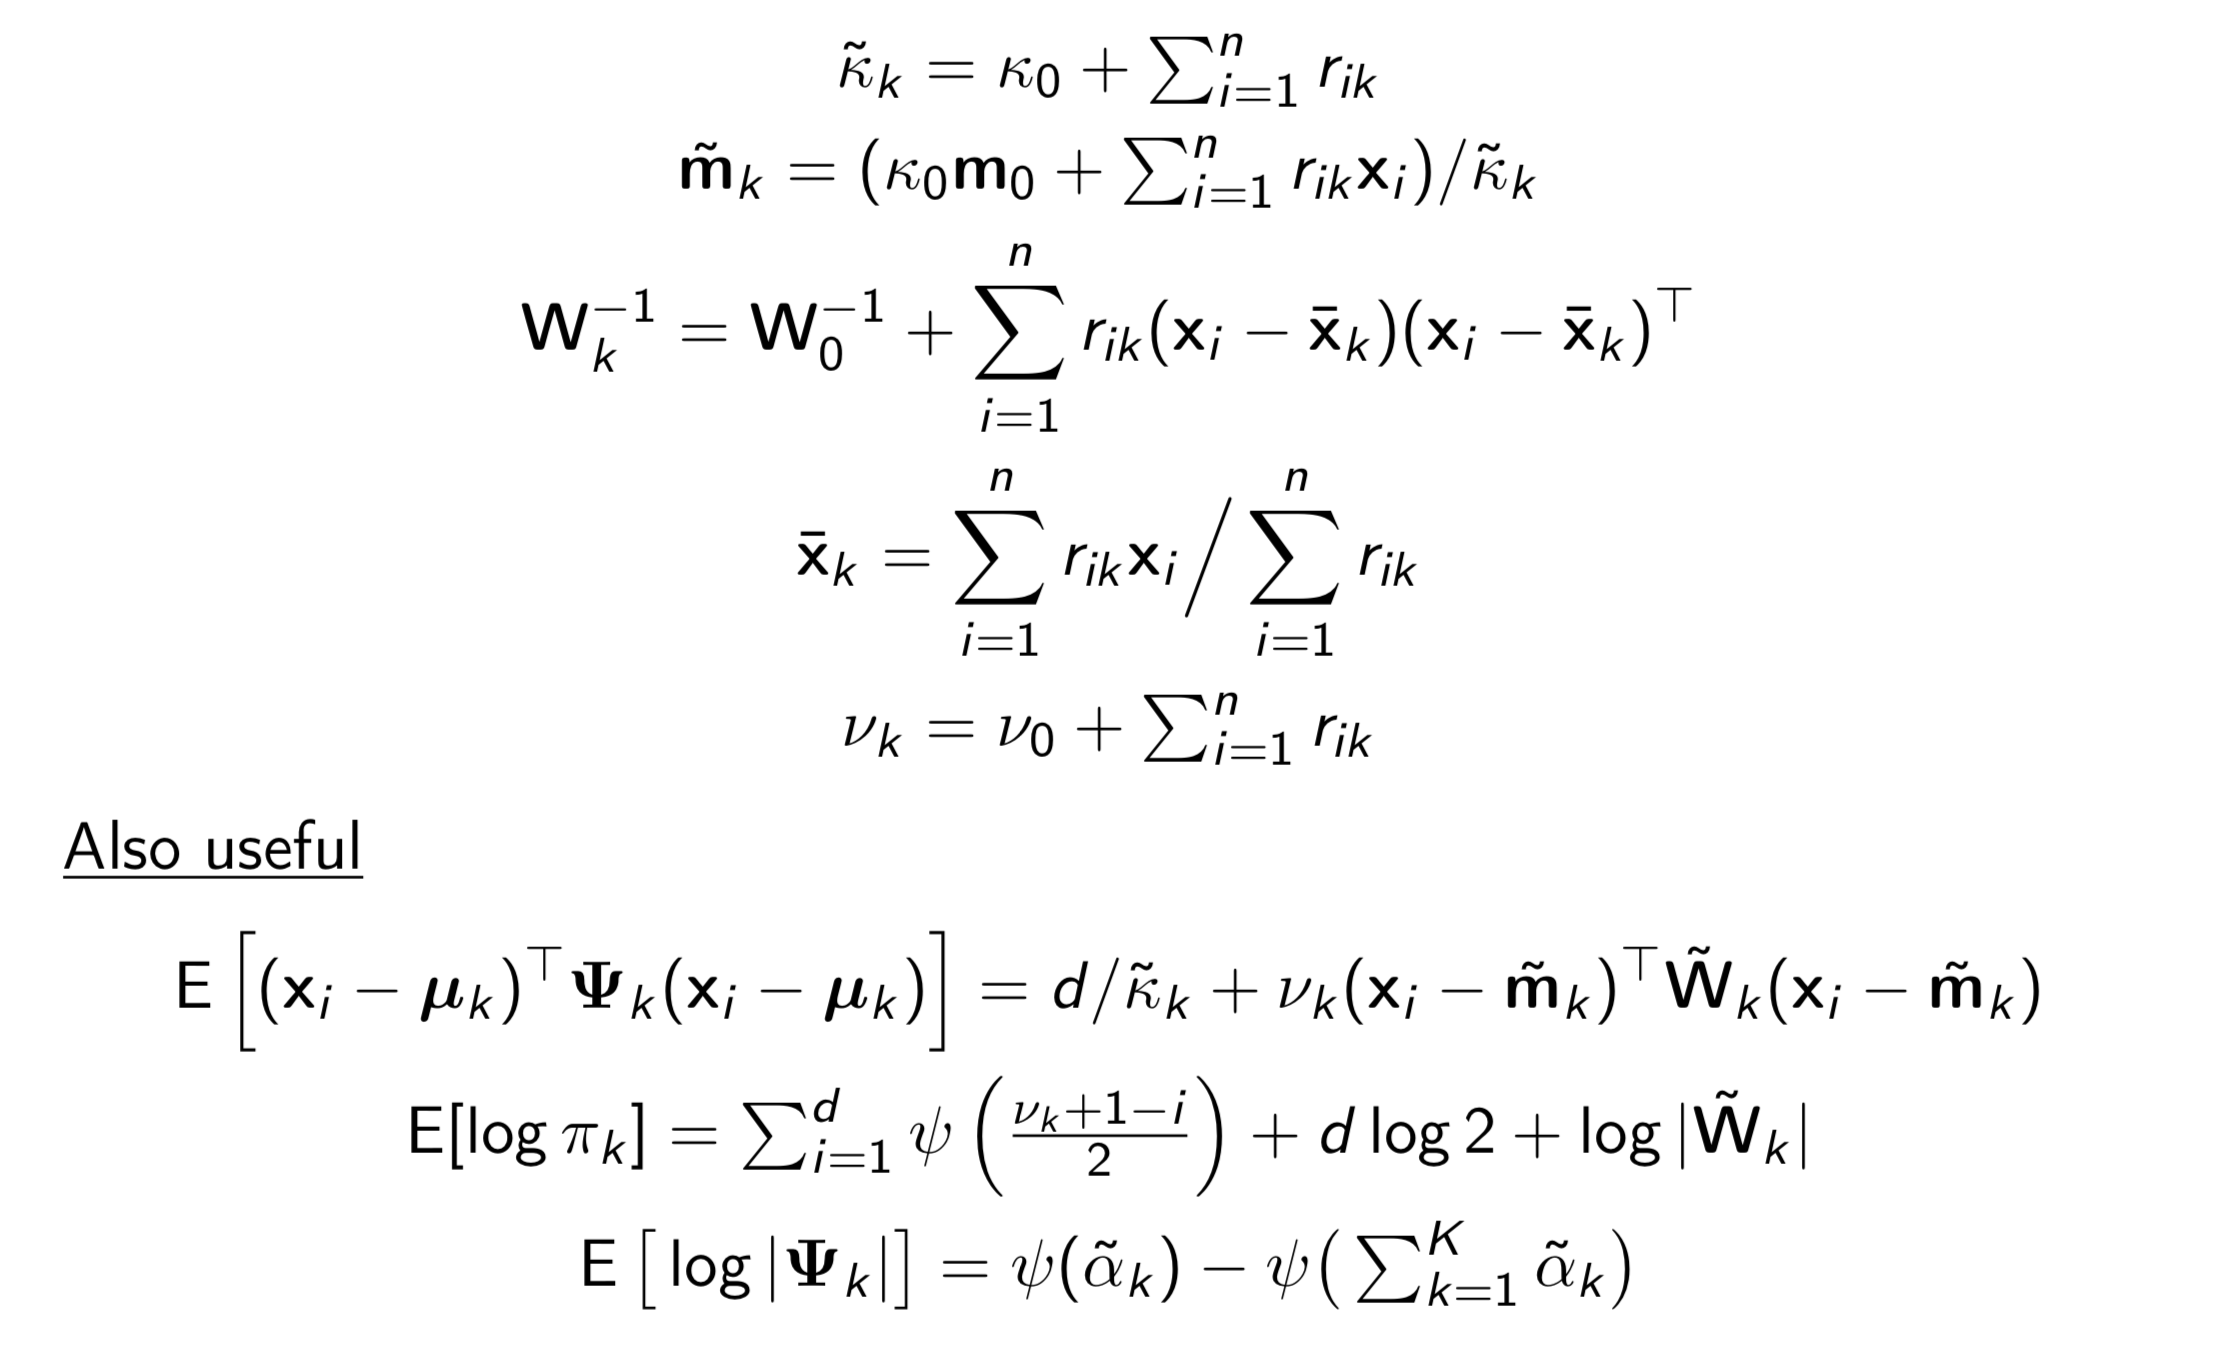
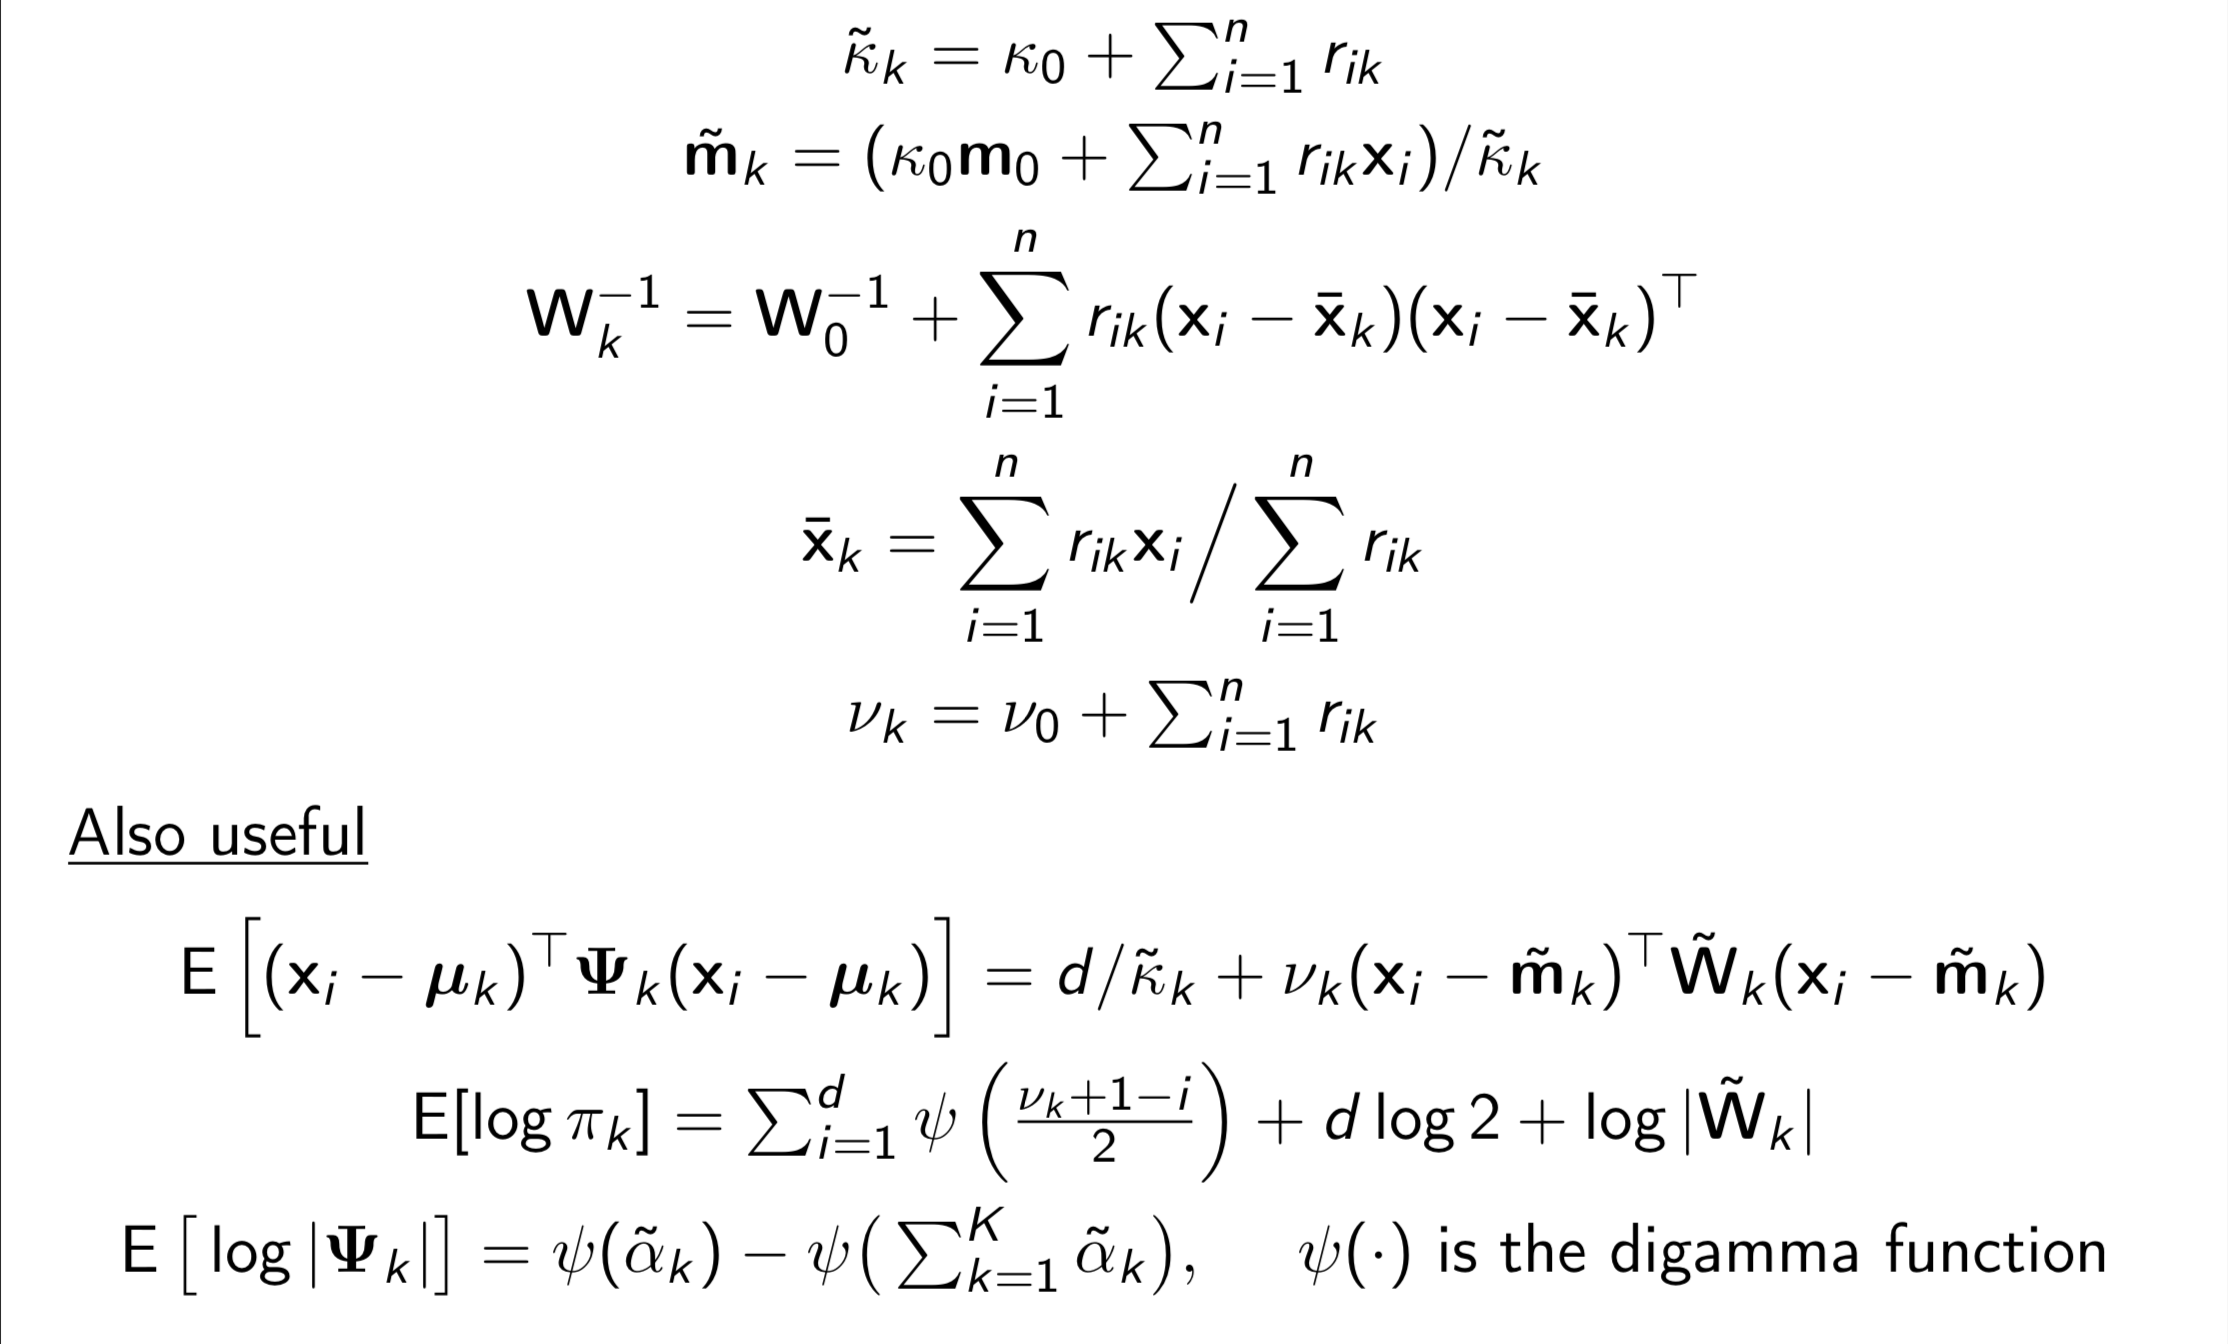
Update slides.

diff --git a/06-additional-material.tex b/06-additional-material.tex
@@ -135,7 +135,7 @@
     \E \left[(\bx_i - \bmu_k)^\top \bPsi_k (\bx_i - \bmu_k)  \right] = 
     d/\tilde\kappa_k + \nu_k(\bx_i - \tilde\bmm_k)^\top \tilde\bW_k (\bx_i - \tilde\bmm_k) \\
     \E[\log\pi_k] = \textstyle\sum_{i=1}^d \psi\left(\frac{\nu_k + 1 - i}{2} \right) + d \log 2 + \log |\tilde\bW_k |  \\
-    \E\big[\log|\bPsi_k|\big] = \psi(\tilde\alpha_k) - \psi\big(\textstyle\sum_{k=1}^K\tilde\alpha_k\big)
+    \E\big[\log|\bPsi_k|\big] = \psi(\tilde\alpha_k) - \psi\big(\textstyle\sum_{k=1}^K\tilde\alpha_k\big), \hspace{0.5cm} \psi(\cdot)\text{ is the digamma function}
   \end{gathered} 
   \end{align*}  
   
